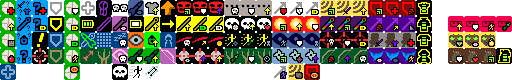
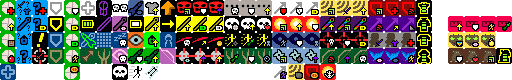
added 4th blast talent

Changed region(s): [[0.625, 0.8, 0.6562, 1.0]]

diff --git a/core/src/main/java/com/zrp200/rkpd2/actors/hero/abilities/mage/ElementalBlast.java b/core/src/main/java/com/zrp200/rkpd2/actors/hero/abilities/mage/ElementalBlast.java
@@ -21,6 +21,12 @@
 
 package com.zrp200.rkpd2.actors.hero.abilities.mage;
 
+import com.watabou.noosa.Game;
+import com.watabou.noosa.audio.Sample;
+import com.watabou.utils.Callback;
+import com.watabou.utils.PathFinder;
+import com.watabou.utils.Random;
+import com.watabou.utils.Reflection;
 import com.zrp200.rkpd2.Assets;
 import com.zrp200.rkpd2.Dungeon;
 import com.zrp200.rkpd2.actors.Actor;
@@ -29,19 +35,7 @@ import com.zrp200.rkpd2.actors.blobs.Blob;
 import com.zrp200.rkpd2.actors.blobs.Electricity;
 import com.zrp200.rkpd2.actors.blobs.Fire;
 import com.zrp200.rkpd2.actors.blobs.Freezing;
-import com.zrp200.rkpd2.actors.buffs.Amok;
-import com.zrp200.rkpd2.actors.buffs.Barrier;
-import com.zrp200.rkpd2.actors.buffs.Blindness;
-import com.zrp200.rkpd2.actors.buffs.Buff;
-import com.zrp200.rkpd2.actors.buffs.Burning;
-import com.zrp200.rkpd2.actors.buffs.Charm;
-import com.zrp200.rkpd2.actors.buffs.Corrosion;
-import com.zrp200.rkpd2.actors.buffs.Frost;
-import com.zrp200.rkpd2.actors.buffs.Invisibility;
-import com.zrp200.rkpd2.actors.buffs.Light;
-import com.zrp200.rkpd2.actors.buffs.Paralysis;
-import com.zrp200.rkpd2.actors.buffs.Recharging;
-import com.zrp200.rkpd2.actors.buffs.Roots;
+import com.zrp200.rkpd2.actors.buffs.*;
 import com.zrp200.rkpd2.actors.hero.Hero;
 import com.zrp200.rkpd2.actors.hero.Talent;
 import com.zrp200.rkpd2.actors.hero.abilities.ArmorAbility;
@@ -49,24 +43,9 @@ import com.zrp200.rkpd2.actors.mobs.Mob;
 import com.zrp200.rkpd2.effects.MagicMissile;
 import com.zrp200.rkpd2.effects.Speck;
 import com.zrp200.rkpd2.effects.particles.ShadowParticle;
-import com.zrp200.rkpd2.items.Item;
 import com.zrp200.rkpd2.items.armor.ClassArmor;
 import com.zrp200.rkpd2.items.scrolls.ScrollOfMagicMapping;
-import com.zrp200.rkpd2.items.wands.Wand;
-import com.zrp200.rkpd2.items.wands.WandOfBlastWave;
-import com.zrp200.rkpd2.items.wands.WandOfCorrosion;
-import com.zrp200.rkpd2.items.wands.WandOfCorruption;
-import com.zrp200.rkpd2.items.wands.WandOfDisintegration;
-import com.zrp200.rkpd2.items.wands.WandOfFireblast;
-import com.zrp200.rkpd2.items.wands.WandOfFirebolt;
-import com.zrp200.rkpd2.items.wands.WandOfFrost;
-import com.zrp200.rkpd2.items.wands.WandOfLightning;
-import com.zrp200.rkpd2.items.wands.WandOfLivingEarth;
-import com.zrp200.rkpd2.items.wands.WandOfMagicMissile;
-import com.zrp200.rkpd2.items.wands.WandOfPrismaticLight;
-import com.zrp200.rkpd2.items.wands.WandOfRegrowth;
-import com.zrp200.rkpd2.items.wands.WandOfTransfusion;
-import com.zrp200.rkpd2.items.wands.WandOfWarding;
+import com.zrp200.rkpd2.items.wands.*;
 import com.zrp200.rkpd2.items.weapon.melee.MagesStaff;
 import com.zrp200.rkpd2.levels.Level;
 import com.zrp200.rkpd2.levels.Terrain;
@@ -75,12 +54,6 @@ import com.zrp200.rkpd2.mechanics.ConeAOE;
 import com.zrp200.rkpd2.messages.Messages;
 import com.zrp200.rkpd2.scenes.GameScene;
 import com.zrp200.rkpd2.sprites.CharSprite;
-import com.watabou.noosa.Game;
-import com.watabou.noosa.audio.Sample;
-import com.watabou.utils.Callback;
-import com.watabou.utils.PathFinder;
-import com.watabou.utils.Random;
-import com.watabou.utils.Reflection;
 
 import java.util.HashMap;
 
@@ -146,7 +119,8 @@ public class ElementalBlast extends ArmorAbility {
 			return;
 		}
 
-		int aoeSize = /*4*/5 + hero.pointsInTalent(Talent.BLAST_RADIUS);
+		int aoeSize = /*4*/5 + hero.pointsInTalent(Talent.BLAST_RADIUS)  *
+				(hero.hasTalent(Talent.EMPOWERED_STRIKE_II) ? 2 : 1);
 
 		int projectileProps = Ballistica.STOP_SOLID | Ballistica.STOP_TARGET;
 
@@ -176,7 +150,9 @@ public class ElementalBlast extends ArmorAbility {
 			);
 		}
 
-		final float effectMulti = 1f + (0.15f*hero.pointsInTalent(Talent.ELEMENTAL_POWER))*1.5f;
+		final float effectMulti = (1f + (0.15f*hero.pointsInTalent(Talent.ELEMENTAL_POWER))*1.5f) *
+				(hero.hasTalent(Talent.EMPOWERED_STRIKE_II) ? 2f : 1f);
+		final int miscEffectMulti = (hero.hasTalent(Talent.EMPOWERED_STRIKE_II) ? 2 : 1);
 
 		//cast a ray 2/3 the way, and do effects
 		Class<? extends Wand> finalWandCls = wandCls == WandOfFirebolt.class ? WandOfFireblast.class : wandCls;
@@ -197,7 +173,7 @@ public class ElementalBlast extends ArmorAbility {
 							//*** Wand of Lightning ***
 							if (finalWandCls == WandOfLightning.class){
 								if (Dungeon.level.water[cell]){
-									GameScene.add( Blob.seed( cell, 4, Electricity.class ) );
+									GameScene.add( Blob.seed( cell, 4 * miscEffectMulti, Electricity.class ) );
 								}
 
 							//*** Wand of Fireblast ***
@@ -210,7 +186,7 @@ public class ElementalBlast extends ArmorAbility {
 									freeze.clear(cell);
 								}
 								if (Dungeon.level.flamable[cell]){
-									GameScene.add( Blob.seed( cell, 4, Fire.class ) );
+									GameScene.add( Blob.seed( cell, 4 * miscEffectMulti, Fire.class ) );
 								}
 
 							//*** Wand of Frost ***
@@ -393,7 +369,7 @@ public class ElementalBlast extends ArmorAbility {
 
 						charsHit = Math.min(5, charsHit);
 						if (charsHit > 0 && hero.hasTalent(Talent.REACTIVE_BARRIER)){
-							Buff.affect(hero, Barrier.class).setShield(charsHit*/*2*/3*hero.pointsInTalent(Talent.REACTIVE_BARRIER));
+							Buff.affect(hero, Barrier.class).setShield(charsHit*/*2*/3*hero.pointsInTalent(Talent.REACTIVE_BARRIER)*miscEffectMulti);
 						}
 
 						hero.spendAndNext(Actor.TICK);
@@ -431,6 +407,6 @@ public class ElementalBlast extends ArmorAbility {
 
 	@Override
 	public Talent[] talents() {
-		return new Talent[]{Talent.BLAST_RADIUS, Talent.ELEMENTAL_POWER, Talent.REACTIVE_BARRIER, Talent.HEROIC_ENERGY};
+		return new Talent[]{Talent.BLAST_RADIUS, Talent.ELEMENTAL_POWER, Talent.REACTIVE_BARRIER, Talent.EMPOWERED_STRIKE_II, Talent.HEROIC_ENERGY};
 	}
 }

diff --git a/core/src/main/java/com/zrp200/rkpd2/actors/hero/abilities/ArmorAbility.java b/core/src/main/java/com/zrp200/rkpd2/actors/hero/abilities/ArmorAbility.java
@@ -66,6 +66,9 @@ public abstract class ArmorAbility implements Bundlable {
 
 	public float chargeUse( Hero hero ){
 		float chargeUse = baseChargeUse;
+		if (hero.hasTalent(Talent.EMPOWERED_STRIKE_II)){
+			chargeUse = 85 - hero.pointsInTalent(Talent.EMPOWERED_STRIKE_II);
+		}
 		if (hero.hasTalent(Talent.HEROIC_ENERGY)){
 			//reduced charge use by 16%/30%/41%/50%
 			chargeUse *= Math.pow( HEROIC_ENERGY_REDUCTION, hero.pointsInTalent(Talent.HEROIC_ENERGY));

diff --git a/core/src/main/java/com/zrp200/rkpd2/actors/hero/Talent.java b/core/src/main/java/com/zrp200/rkpd2/actors/hero/Talent.java
@@ -99,7 +99,7 @@ public enum Talent {
 	//Warlock T3
 	SOUL_EATER(46, 3), SOUL_SIPHON(47, 3), NECROMANCERS_MINIONS(48, 3), WARLOCKS_TOUCH (135, 3),
 	//Elemental Blast T4
-	BLAST_RADIUS(49, 4), ELEMENTAL_POWER(50, 4), REACTIVE_BARRIER(51, 4),
+	BLAST_RADIUS(49, 4), ELEMENTAL_POWER(50, 4), REACTIVE_BARRIER(51, 4), EMPOWERED_STRIKE_II(148, 4),
 	//Wild Magic T4
 	WILD_POWER(52, 4), FIRE_EVERYTHING(53, 4), CONSERVED_MAGIC(54, 4),
 	//Warp Beacon T4
